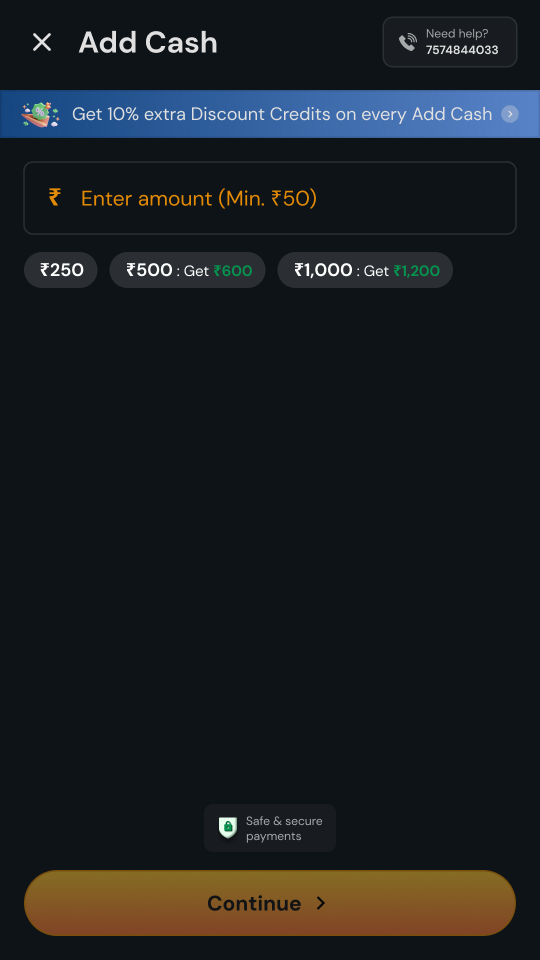
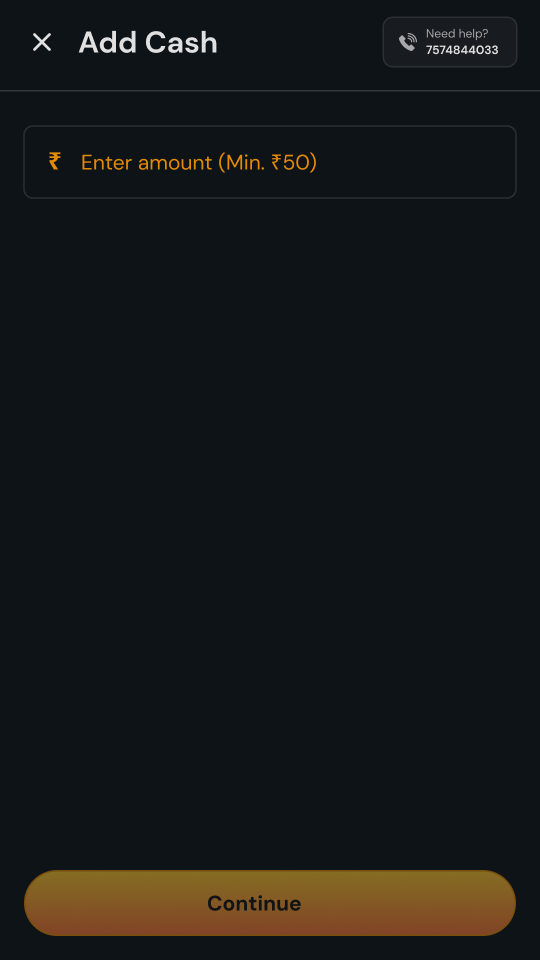
Payments case study: new opening, Rahul as partner, portrait amount flow, tidier cards and screens

diff --git a/projects/add-cash.html b/projects/add-cash.html
@@ -62,6 +62,8 @@ section[id]{scroll-margin-top:64px}
 @media (min-width:768px){.ac-h1{font-size:40px;line-height:47px}}
 .ac-h1 .q{display:block;color:var(--ink-muted)}
 .ac-h1 .a{display:block}
+.ac-link{color:inherit;text-decoration:underline;text-underline-position:from-font}
+.ac-link:hover{text-decoration-thickness:2px}
 .ac-sub{margin-top:20px;font-weight:500;font-size:16px;line-height:28px;color:var(--ink-muted);text-wrap:pretty}
 
 .ac-meta{margin-top:32px;display:grid;grid-template-columns:1fr 1fr;gap:20px 24px}
@@ -131,6 +133,7 @@ section[id]{scroll-margin-top:64px}
 @media (max-width:767.98px){.ac-canvas{padding:24px 16px;border-radius:16px}}
 .ac-shot{display:block;width:100%;height:auto;border-radius:14px;border:.5px solid rgba(0,0,0,.12);background:#0e1317}
 .ac-shot--crop{aspect-ratio:9/16;object-fit:cover;object-position:top}
+.ac-shot--tall{aspect-ratio:540/1071;object-fit:cover;object-position:top}
 figcaption{margin-top:12px;font-size:13px;line-height:20px;color:var(--ink-muted);text-align:center;text-wrap:balance}
 
 /* Anatomy: one screen, callouts pinned to the elements they describe.
@@ -160,18 +163,15 @@ figcaption{margin-top:12px;font-size:13px;line-height:20px;color:var(--ink-muted
   .ac-call::before{content:"";float:left;margin:6px 0 0 -15px;width:7px;height:7px;border-radius:50%;background:var(--ac-accent)}
 }
 
-/* The turn: landscape -> rotate -> portrait. */
-.ac-turn{display:flex;align-items:center;justify-content:center;gap:20px}
-.ac-turn figure{flex:none}
-.ac-turn .land{width:360px}
-.ac-turn .port{width:212px}
-.ac-turn figcaption{max-width:240px;margin-inline:auto}
+/* The amount flow: four upright screens with arrows; a swipeable row on phones. */
+.ac-flow{display:flex;align-items:flex-start;justify-content:center;gap:24px}
+.ac-flow figure{flex:0 0 192px}
+.ac-flow .ac-arrow{align-self:center;margin-top:-34px}
 .ac-arrow{flex:none;font-size:22px;line-height:28px;color:rgba(0,0,0,.3)}
 @media (max-width:899.98px){
-  .ac-turn{flex-direction:column;gap:12px}
-  .ac-turn .land{width:min(360px,100%)}
-  .ac-turn .port{width:180px}
-  .ac-arrow{transform:rotate(90deg)}
+  .ac-flow{justify-content:flex-start;overflow-x:auto;scroll-snap-type:x mandatory;gap:12px;scrollbar-width:thin}
+  .ac-flow figure{flex:0 0 150px;scroll-snap-align:start}
+  .ac-flow .ac-arrow{margin-top:-30px;font-size:18px}
 }
 
 /* ---------- Journeys ---------- */
@@ -271,8 +271,8 @@ html:not(.js) .reveal{opacity:1;transform:none}
       </p>
 
       <dl class="ac-meta">
-        <div><dt>Role</dt><dd class="ac-ph-text">[Your role]</dd></div>
-        <div><dt>Team</dt><dd class="ac-ph-text">[Who you worked with]</dd></div>
+        <div><dt>Role</dt><dd>Lead Product Designer</dd></div>
+        <div><dt>Partner</dt><dd><a class="ac-link" href="https://in.linkedin.com/in/rahul-singla1" target="_blank" rel="noopener">Rahul Singla</a>, PM</dd></div>
         <div><dt>Product</dt><dd>RummyCulture · Gameskraft</dd></div>
         <div><dt>Status</dt><dd>Live</dd></div>
       </dl>
@@ -281,7 +281,7 @@ html:not(.js) .reveal{opacity:1;transform:none}
     <div class="ac-wide">
       <div class="ac-stage" role="group" aria-label="Five screens from the Add Cash flow">
         <img class="p1" src="../assets/img/add-cash/add-cash-portrait.png" width="540" height="960" decoding="async"
-             alt="The Add Cash screen: an amount field with a ₹50 minimum, preset chips for ₹250, ₹500 and ₹1,000, and a Continue button.">
+             alt="The Add Cash screen: an empty amount field with a ₹50 minimum, and a Continue button.">
         <img class="p2" src="../assets/img/add-cash/list.png" width="540" height="960" decoding="async"
              alt="The payment page listing UPI apps, cards, wallets and net banking.">
         <img class="p3" src="../assets/img/add-cash/upi-selected.png" width="540" height="960" decoding="async"
@@ -309,23 +309,22 @@ html:not(.js) .reveal{opacity:1;transform:none}
     </div>
   </nav>
 
-  <!-- A Sunday afternoon ------------------------------------------------ -->
+  <!-- Before the first game -------------------------------------------- -->
   <section class="ac-sec" id="story">
     <div class="ac-wrap">
-      <p class="ac-eyebrow">A Sunday afternoon</p>
-      <h2 class="ac-h2">2:21 pm. Registration closes at 2:25.</h2>
+      <p class="ac-eyebrow">Before the first game</p>
+      <h2 class="ac-h2">One small step between you and the table.</h2>
       <p class="ac-body">
-        The Sunday Mega Block Buster starts at 2:30. Entry is ₹350, the prize pool is ₹65 lakh, and
-        you’ve been waiting all week for this one. You tap Register. The app says there isn’t enough
-        money in your account.
+        On RummyCulture you can practise for free. But to sit at a cash table or join a tournament,
+        you need money in your account, so whatever you opened the app to play, the first real step
+        is the same: Add Cash.
       </p>
       <p class="ac-body">
-        So you tap Add Cash. The chip says ₹1,000 gets you ₹1,200, so you pick that and hit Continue.
-        Now there’s a page full of ways to pay, a clock ticking in the back of your head, and one
-        question you don’t say out loud.
+        You type ₹1,000 and hit Continue. Now there’s a page full of ways to pay, a game waiting on
+        the other side, and one question you don’t say out loud.
       </p>
       <blockquote class="ac-pull reveal">“What if the money leaves my account and never shows up?”</blockquote>
-      <p class="ac-body">That question is the real user of this page. Everything below is an answer to it.</p>
+      <p class="ac-body">Every player who reaches this page carries that question. Everything below is an answer to it.</p>
     </div>
   </section>
 
@@ -356,7 +355,6 @@ html:not(.js) .reveal{opacity:1;transform:none}
         <div class="ac-hold"><span class="e" aria-hidden="true">🚦</span><h3>Methods that fail</h3><p>When a UPI app or a bank is struggling, players should know before they tap.</p></div>
         <div class="ac-hold"><span class="e" aria-hidden="true">🔁</span><h3>The second visit</h3><p>A returning player shouldn’t have to choose all over again.</p></div>
       </div>
-      <p class="ac-ph">[Before: if you still have the old Add Cash and payment screens, add them here as a short “before” strip, the way Swiggy opens with its old flow.]</p>
     </div>
   </section>
 
@@ -388,7 +386,7 @@ html:not(.js) .reveal{opacity:1;transform:none}
       <h2 class="ac-h2">One list, read top to bottom</h2>
       <p class="ac-body">
         Every flow starts from the same list. We grouped the methods by where the money lives and
-        gave each group one verb: tap an app, add a card, link a wallet, pick a bank. Nothing on the
+        gave each group one clear action: tap an app, add a card, link a wallet, or choose a bank. Nothing on the
         page asks the player to read more than a line.
       </p>
     </div>
@@ -397,9 +395,9 @@ html:not(.js) .reveal{opacity:1;transform:none}
       <div class="ac-canvas reveal">
         <div class="ac-anat">
           <div class="ac-anat__col ac-anat__col--l">
-            <div class="ac-call" style="top:7%"><div class="ac-call__txt"><h3>Amount on top</h3><p>The amount and View details stay pinned at the top.</p></div><span class="ac-call__line" aria-hidden="true"></span></div>
+            <div class="ac-call" style="top:7%"><div class="ac-call__txt"><h3>Amount on top</h3><p>Add ₹1,000 stays pinned at the top. View details opens the GST split.</p></div><span class="ac-call__line" aria-hidden="true"></span></div>
             <div class="ac-call" style="top:21.5%"><div class="ac-call__txt"><h3>UPI first</h3><p>One tap, one PIN. The three apps people use most are right on the page.</p></div><span class="ac-call__line" aria-hidden="true"></span></div>
-            <div class="ac-call" style="top:47.8%"><div class="ac-call__txt"><h3>One verb per group</h3><p>Add a card. Link a wallet. Pick a bank.</p></div><span class="ac-call__line" aria-hidden="true"></span></div>
+            <div class="ac-call" style="top:47.8%"><div class="ac-call__txt"><h3>One clear action per method</h3><p>Each payment type has a single next step: tap a UPI app, add a card, link a wallet, or choose a bank.</p></div><span class="ac-call__line" aria-hidden="true"></span></div>
           </div>
           <img class="ac-shot ac-anat__screen" src="../assets/img/add-cash/list.png" width="540" height="960" loading="lazy" decoding="async"
                alt="The payment page: Add ₹1,000 with View details at the top, then UPI apps, Debit/Credit Cards, Wallets with Link, and Net Banking.">
@@ -413,31 +411,39 @@ html:not(.js) .reveal{opacity:1;transform:none}
     </div>
 
     <div class="ac-wrap ac-chapter">
-      <h3>🔄 Rummy is played sideways. Paying isn’t.</h3>
+      <h3>💰 It starts with an amount</h3>
       <p>
-        The tables are landscape, and so is Add Cash, so a player can top up without leaving the
-        feel of the game. UPI apps, OTPs and bank pages all live in portrait, so after Continue the
-        app asks them to turn the phone, once. Everything from there is upright.
+        Add Cash opens with one question: how much? The field takes anything from ₹50, and Continue
+        stays dimmed until there’s an amount in it. Type ₹1,000 and it lights up at the bottom, under
+        the player’s thumb, one tap from the payment page. And if they want to check the maths first,
+        View details at the top opens the full split: ₹218.75 to GST, the same back as Discount
+        Credits, and a Buy-In Value of 1,000.
       </p>
     </div>
     <div class="ac-wide">
-      <div class="ac-canvas ac-turn reveal">
-        <figure class="land">
-          <img class="ac-shot" src="../assets/img/add-cash/landing-landscape.png" width="960" height="540" loading="lazy" decoding="async"
-               alt="The landscape Add Cash screen with the amount field, presets and a Continue button.">
-          <figcaption>Add Cash sits in landscape, like the tables</figcaption>
+      <div class="ac-canvas ac-flow reveal">
+        <figure>
+          <img class="ac-shot" src="../assets/img/add-cash/add-cash-portrait.png" width="540" height="960" loading="lazy" decoding="async"
+               alt="Add Cash with an empty amount field and Continue dimmed.">
+          <figcaption>Choose an amount</figcaption>
         </figure>
         <span class="ac-arrow" aria-hidden="true">→</span>
-        <figure class="land">
-          <img class="ac-shot" src="../assets/img/add-cash/rotate-phone.png" width="960" height="540" loading="lazy" decoding="async"
-               alt="A Rotate phone prompt over the dimmed Add Cash screen.">
-          <figcaption>The app asks to turn the phone, once</figcaption>
+        <figure>
+          <img class="ac-shot" src="../assets/img/add-cash/add-cash-entered.png" width="540" height="960" loading="lazy" decoding="async"
+               alt="₹1,000 entered in the amount field and Continue switched on.">
+          <figcaption>₹1,000 entered, Continue on</figcaption>
         </figure>
         <span class="ac-arrow" aria-hidden="true">→</span>
-        <figure class="port">
+        <figure>
           <img class="ac-shot" src="../assets/img/add-cash/list.png" width="540" height="960" loading="lazy" decoding="async"
-               alt="The portrait payment page.">
-          <figcaption>Everything after is upright</figcaption>
+               alt="The payment page listing UPI apps, cards, wallets and net banking.">
+          <figcaption>Then, how to pay</figcaption>
+        </figure>
+        <span class="ac-arrow" aria-hidden="true">→</span>
+        <figure>
+          <img class="ac-shot" src="../assets/img/add-cash/gst-details.png" width="540" height="960" loading="lazy" decoding="async"
+               alt="The View details sheet: ₹1,000, GST at 28% of ₹218.75, Discount Credits of ₹218.75 and a Buy-In Value of 1,000.">
+          <figcaption>View details: where the money goes</figcaption>
         </figure>
       </div>
     </div>
@@ -621,9 +627,9 @@ html:not(.js) .reveal{opacity:1;transform:none}
     <div class="ac-wrap" style="padding-top:40px">
       <p class="ac-label">Three ways to handle a failing method</p>
       <div class="ac-opts reveal">
-        <div class="ac-opt"><h4>❌ Hide it</h4><p>Someone who always pays with PhonePe opens the page and it’s gone. That reads as a bug, and it’s their money.</p></div>
-        <div class="ac-opt"><h4>❌ Let them find out</h4><p>They tap, wait for the app, and fail with the clock running. The worst version of the problem.</p></div>
-        <div class="ac-opt ac-opt--ok"><h4>✅ Say it, dim it, move it</h4><p>They see the problem before they tap, and a working option is already above it.</p></div>
+        <div class="ac-opt"><h4>❌ Hide it</h4><p>Someone who always pays with PhonePe finds it gone. It feels like a bug.</p></div>
+        <div class="ac-opt"><h4>❌ Let them find out</h4><p>They tap, wait for the app and then fail, with the clock still running.</p></div>
+        <div class="ac-opt ac-opt--ok"><h4>✅ Say it, dim it, move it</h4><p>They see the problem before they tap, with a working option right above.</p></div>
       </div>
     </div>
 
@@ -654,13 +660,11 @@ html:not(.js) .reveal{opacity:1;transform:none}
         the government, ₹781.25 into Deposit Balance and ₹218.75 back as Discount Credits. The Buy-In
         Value is 1,000, the same number the player paid.
       </p>
-      <p>On this one, there’s a reason to go straight back to the table too: a free tournament ticket worth ₹499.</p>
     </div>
     <div class="ac-wide">
-      <div class="ac-strip reveal" style="--n:4">
-        <figure><img class="ac-shot" src="../assets/img/add-cash/success.png" width="540" height="960" loading="lazy" decoding="async" alt="A full green Success screen."><figcaption>A moment</figcaption></figure>
-        <figure><img class="ac-shot" src="../assets/img/add-cash/receipt-ticket.png" width="540" height="960" loading="lazy" decoding="async" alt="Add Cash successful with the GST breakdown, a free tournament ticket worth ₹499 and a referral offer."><figcaption>The receipt</figcaption></figure>
-        <figure><img class="ac-shot" src="../assets/img/add-cash/gst-details.png" width="540" height="960" loading="lazy" decoding="async" alt="Add Cash amount details: ₹1,000, GST at 28% of ₹218.75, Discount Credits of ₹218.75 and a Buy-In Value of 1,000."><figcaption>Where the GST went</figcaption></figure>
+      <div class="ac-strip reveal" style="--n:3;--w:200px">
+        <figure><img class="ac-shot ac-shot--tall" src="../assets/img/add-cash/success.png" width="540" height="960" loading="lazy" decoding="async" alt="A full green Success screen."><figcaption>A moment</figcaption></figure>
+        <figure><img class="ac-shot" src="../assets/img/add-cash/receipt-long.png" width="540" height="1071" loading="lazy" decoding="async" alt="Add Cash successful with the GST breakdown, the GST policy video and a referral offer."><figcaption>The receipt</figcaption></figure>
         <figure><img class="ac-shot" src="../assets/img/add-cash/receipt-full.png" width="540" height="1071" loading="lazy" decoding="async" alt="Full transaction details with date, payment mode, transaction ID and Download invoice."><figcaption>Full details</figcaption></figure>
       </div>
     </div>
